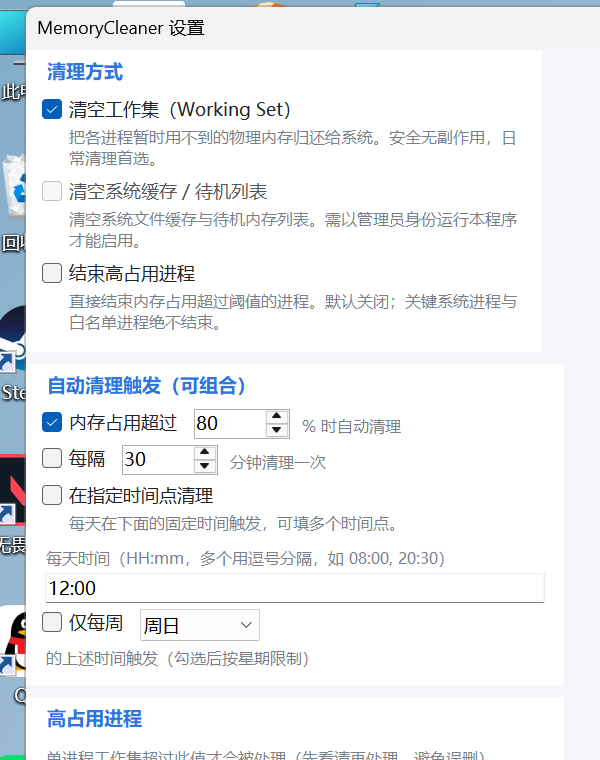
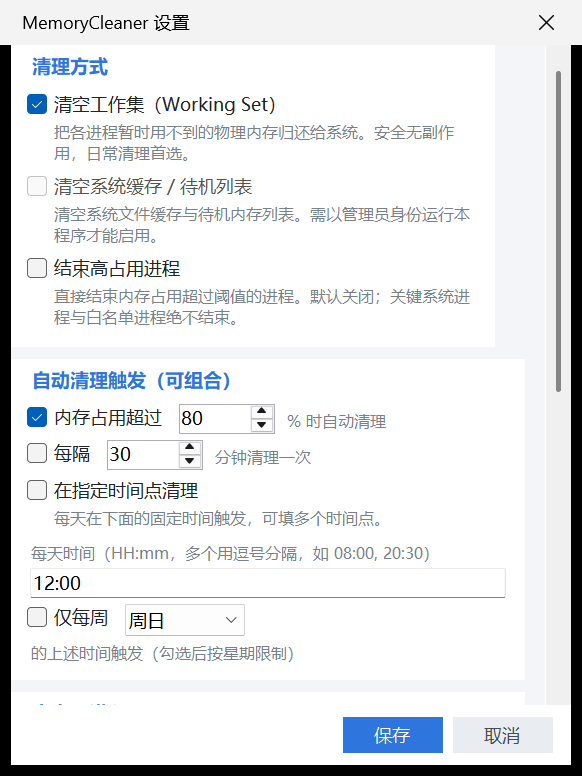
fix: v1.2.1 — 进程窗口居中、界面截断修复、重截效果图
- 高占用进程窗口改为屏幕居中：原用 CenterParent，但从托盘菜单
  ShowDialog() 无 owner，退化成默认位置落在左上角
- 设置窗口去掉多余的横向滚动条：内容宽度收至 476，为常驻的
  纵向滚动条让出空间
- 高占用进程窗口摘要文字改为两行，不再被截断
- 高占用进程窗口列宽重新分配，状态列完整显示“可清理/可结束”
- 重截 images/settings.png：改用窗口级捕获，不再漏出桌面
- 版本号升至 1.2.1

Changed region(s): [[0.0, 0.0, 1.0, 1.0], [0.8351, 0.1513, 0.866, 0.2118]]

diff --git a/src/MemoryCleaner/UI/ProcessListForm.cs b/src/MemoryCleaner/UI/ProcessListForm.cs
@@ -22,15 +22,16 @@ internal sealed class ProcessListForm : Form
         _whitelist = new HashSet<string>(config.ProcessWhitelist, StringComparer.OrdinalIgnoreCase);
 
         Text = "高占用进程";
-        StartPosition = FormStartPosition.CenterParent;
+        StartPosition = FormStartPosition.CenterScreen;
         ClientSize = new Size(560, 520);
         Font = new Font("Microsoft YaHei UI", 9f);
         BackColor = Color.FromArgb(245, 246, 248);
 
+        // 摘要文字较长，单行放不下会被截断，固定分两行显示
         _summary = new Label
         {
             Dock = DockStyle.Top,
-            Height = 40,
+            Height = 48,
             TextAlign = ContentAlignment.MiddleLeft,
             Padding = new Padding(12, 0, 0, 0),
             ForeColor = Color.FromArgb(90, 90, 90),
@@ -59,11 +60,12 @@ internal sealed class ProcessListForm : Form
         Controls.Add(_grid);
         _grid.BringToFront();
 
-        var colCheck = new DataGridViewCheckBoxColumn { HeaderText = "白名单", Width = 60, FillWeight = 18 };
-        var colName = new DataGridViewTextBoxColumn { HeaderText = "进程名", ReadOnly = true, FillWeight = 38 };
-        var colPid = new DataGridViewTextBoxColumn { HeaderText = "PID", ReadOnly = true, FillWeight = 16 };
-        var colMem = new DataGridViewTextBoxColumn { HeaderText = "内存", ReadOnly = true, FillWeight = 18 };
-        var colState = new DataGridViewTextBoxColumn { HeaderText = "状态", ReadOnly = true, FillWeight = 22 };
+        // 各列权重：状态列需容下最长的“可清理/可结束”，故占比高于进程名之外的其余列
+        var colCheck = new DataGridViewCheckBoxColumn { HeaderText = "白名单", Width = 60, FillWeight = 16 };
+        var colName = new DataGridViewTextBoxColumn { HeaderText = "进程名", ReadOnly = true, FillWeight = 30 };
+        var colPid = new DataGridViewTextBoxColumn { HeaderText = "PID", ReadOnly = true, FillWeight = 14 };
+        var colMem = new DataGridViewTextBoxColumn { HeaderText = "内存", ReadOnly = true, FillWeight = 16 };
+        var colState = new DataGridViewTextBoxColumn { HeaderText = "状态", ReadOnly = true, FillWeight = 26 };
         _grid.Columns.AddRange(colCheck, colName, colPid, colMem, colState);
 
         _grid.CellValueChanged += (_, e) =>
@@ -144,7 +146,7 @@ internal sealed class ProcessListForm : Form
             }
         }
 
-        _summary.Text = $"  共 {top.Count} 个进程；{overThreshold} 个超过结束阈值（{_config.KillThresholdMB} MB）。勾选“白名单”可保护进程不被结束。";
+        _summary.Text = $"共 {top.Count} 个进程，{overThreshold} 个超过结束阈值（{_config.KillThresholdMB} MB）。{Environment.NewLine}勾选“白名单”可保护进程不被结束。";
     }
 
     private void SaveWhitelist()

diff --git a/src/MemoryCleaner/UI/SettingsForm.cs b/src/MemoryCleaner/UI/SettingsForm.cs
@@ -18,7 +18,9 @@ internal sealed class SettingsForm : Form
     private static readonly Font FSub = new("Microsoft YaHei UI", 8f);
     private static readonly Font FCardHead = new("Microsoft YaHei UI", 9.5f, FontStyle.Bold);
 
-    private const int ContentWidth = 500; // 卡片内容区宽度（扣除卡片内边距）
+    // 卡片内容区宽度（扣除卡片内边距）。窗口 560 - 滚动区内边距 28 - 纵向滚动条 ≈ 515，
+    // 卡片总宽须小于此值，否则会多出一条横向滚动条。
+    private const int ContentWidth = 476;
 
     private readonly AppConfig _config;
     public AppConfig Result => _config;
@@ -241,7 +243,7 @@ internal sealed class SettingsForm : Form
             BackColor = BgCard,
             Padding = new Padding(16, 8, 16, 14),
             Margin = new Padding(0, 0, 0, 12),
-            Width = 532, // 卡片总宽（内容 500 + 左右内边距 32）
+            Width = ContentWidth + 32, // 卡片总宽（内容 + 左右内边距 32）
             GrowStyle = TableLayoutPanelGrowStyle.AddRows,
         };
         card.ColumnStyles.Add(new ColumnStyle(SizeType.Percent, 100F));
